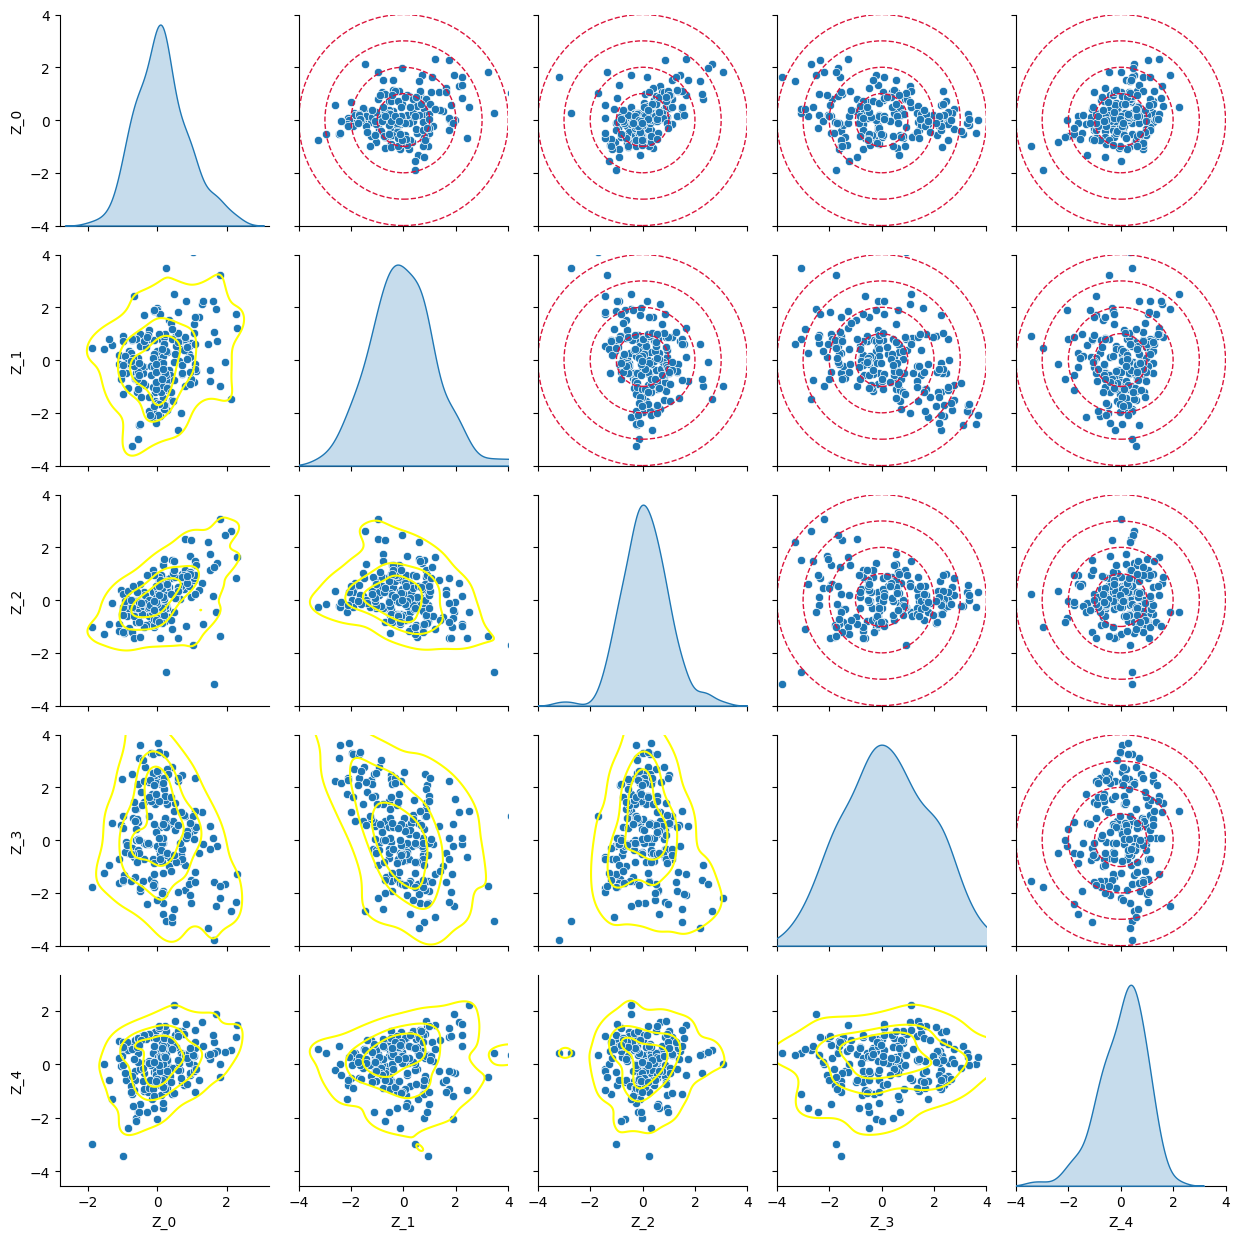
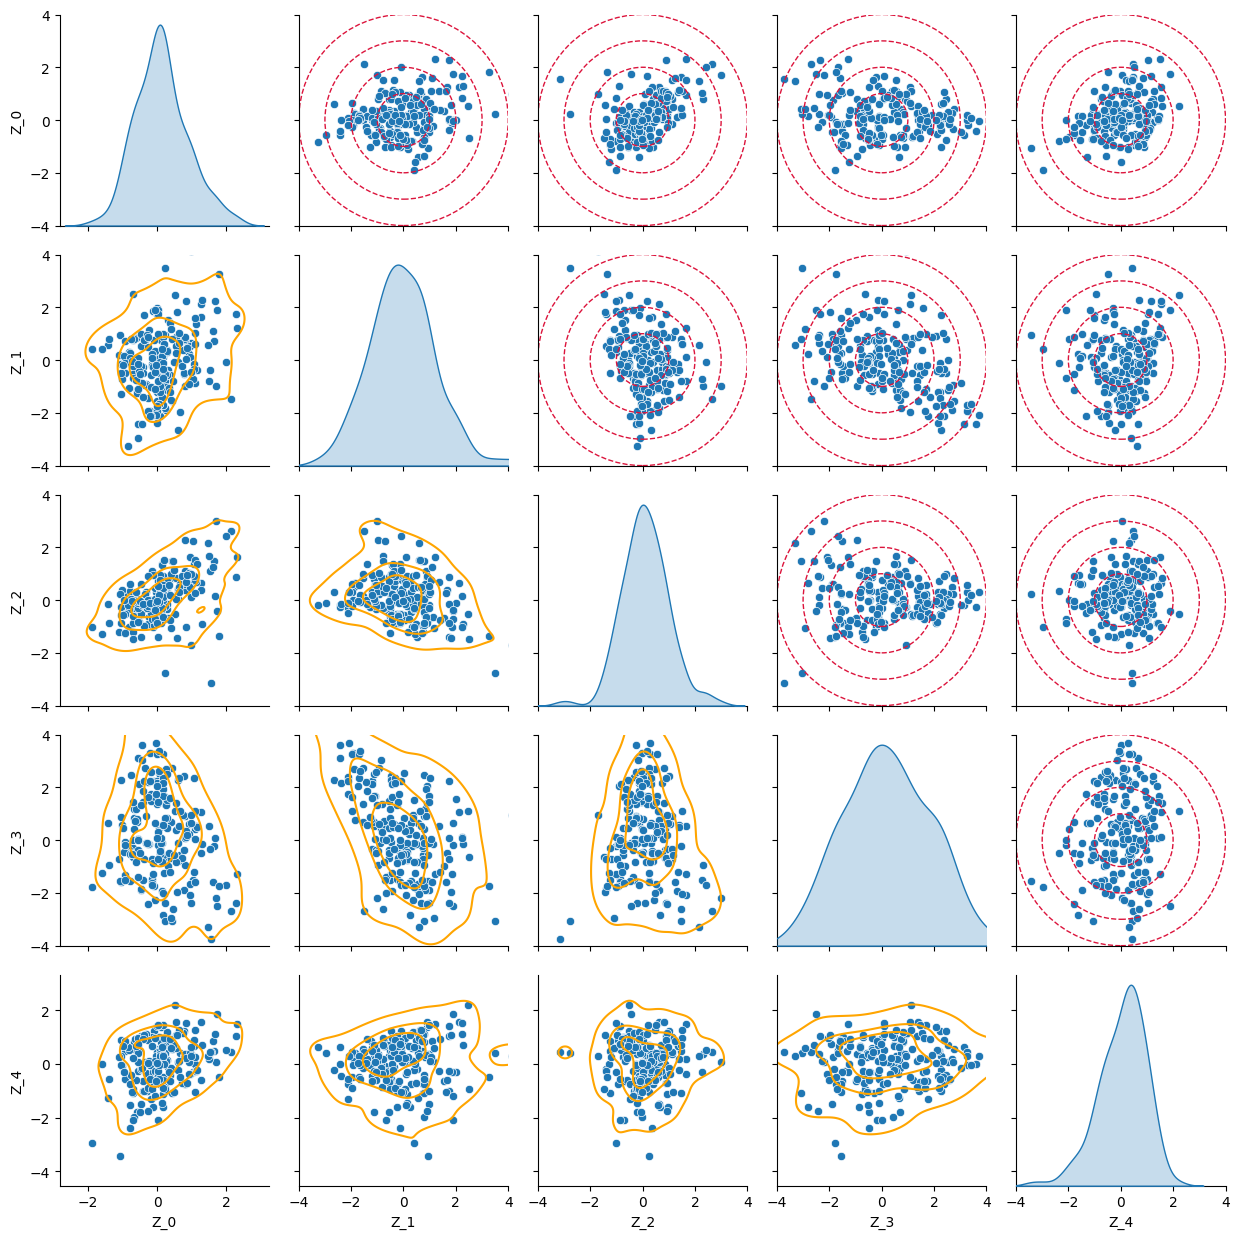
small fixes

diff --git a/_posts/2023-04-01-volatility-surface-generator.md b/_posts/2023-04-01-volatility-surface-generator.md
@@ -36,7 +36,6 @@ from matplotlib import pyplot as plt
 import matplotlib.colors as mcolors
 from mpl_toolkits.mplot3d import Axes3D
 from scipy.stats import norm
-%matplotlib inline
 ```
 
 
@@ -47,15 +46,6 @@ from scipy.stats import norm
 
 ```python
 Model = namedtuple('Model', 'model_date, S_0, r, q, V_0, κ, θ, ζ, ρ')
-```
-
-
-```python
-def get_date():
-    day = np.random.randint(1, 28)
-    month = np.random.randint(1, 13)
-    year = np.random.randint(2000, 2030)
-    return ql.Date(day, month, year)
 ```
 
 
@@ -73,6 +63,8 @@ def generate_ql_surface(model):
     return ql.HestonBlackVolSurface(heston_handle)
 ```
 
+The `compute_smile` function takes a built surface and looks at the at-the-money volatility for the specified expiry. Using this volatility it builds a vector of strikes that are close enough in probability to the forward, and computes the Black-Scholes implied volatility at those strikes. By default we do it with 101 points.
+
 
 ```python
 def compute_smile(model, ql_surface, period, factor=6, num_points=101):
@@ -88,6 +80,19 @@ def compute_smile(model, ql_surface, period, factor=6, num_points=101):
     return T, F, K_all, σ_all
 ```
 
+The small utility function `get_date` generates a random date in the QuantLib format. For what we do here the date is not important but it is still required by QuantLib.
+
+
+```python
+def get_date():
+    day = np.random.randint(1, 28)
+    month = np.random.randint(1, 13)
+    year = np.random.randint(2000, 2030)
+    return ql.Date(day, month, year)
+```
+
+As an example, we visualize one such surface in strike and maturity space.
+
 
 ```python
 model = Model(get_date(), S_0=100.0, r=0.05, q=0.03, V_0=0.1**2, κ=0.25, θ=0.1**2, ζ=0.5, ρ=0.5)
@@ -101,8 +106,6 @@ for color, period in zip(colors, ['1M', '3M', '6M', '1Y', '2Y', '3Y', '4Y', '5Y'
     Z.append(σ_all)
     C.append([color] * len(K_all))
 ```
-
-As an example, we visualize one such surface in strike and maturity space.
 
 
 ```python
@@ -120,7 +123,14 @@ ax.set_zlabel('$σ_{impl}$');
     
 
 
-The problem with strikes is that they change for each maturity; they also depend on the volatility itself, while we would prefer a fixed grid as input to the autoencoder. To do that, we use deltas instead of strikes. This is done by the `compute_simple_delta_surface()` function.
+The problem with strikes is that they change for each maturity; they also depend on the volatility itself, while we would prefer a fixed grid as input to the autoencoder. To do that, we use *deltas* instead of strikes. The delta can be roughly interpreted as the probability of the option of ending up in-the-money. The delta can be defined in several ways; here we will use the so-called *simple delta*,
+
+$$
+\delta = \Phi\left( \frac{\log\frac{F}{K}}{\sigma \sqrt{T} } \right),
+$$
+
+where $T$ is the option expiry, F$ is the forward at $T$, and $\sigma$ the implied volatility defined by the surface itself.
+This is done by the `compute_simple_delta_surface` function below.
 
 
 ```python
@@ -197,7 +207,9 @@ bounds = np.array([
 ```
 
 We use [Sobol sequences](https://en.wikipedia.org/wiki/Sobol_sequence) to span through this sever-dimensional space. For each combination of the parameters, we need to sample the surface over some deltas and maturities. For the detlas, we use
-$\mathfrak{D} = \{ \delta_1, \ldots, \delta_d \}$,with $\delta_1 = 0.1$, $\delta_d$ = 0.9, and the other points equally spaced, with $d=20$. For the maturities, we take $\mathfrak{M} = \{ \texttt{1M}, \texttt{2M}, \texttt{3M}, \texttt{4M}, \texttt{5M}, \texttt{6M}, \texttt{7M}, \texttt{8M}, \texttt{9M}, \texttt{1Y}, \texttt{18M}, \texttt{2Y}, \texttt{3Y}, \texttt{4Y}, \texttt{5Y} \}$. The resulting surface is defined on a space $\mathfrak{Z} = \mathfrak{D} \times \mathfrak{M}$ and has dimension $20 \times 15 = 300$.
+$\mathfrak{D} = \{ \delta_1, \ldots, \delta_d \}$,with $\delta_1 = 0.1$, $\delta_d$ = 0.9, and the other points equally spaced, with $d=12$. This number is a bit small; much larger samples are needed for better results but we limit ourselves to small sample sizes.
+
+For the maturities, we take $\mathfrak{M} = \{ \texttt{1M}, \texttt{2M}, \texttt{3M}, \texttt{4M}, \texttt{5M}, \texttt{6M}, \texttt{7M}, \texttt{8M}, \texttt{9M}, \texttt{1Y}, \texttt{18M}, \texttt{2Y}, \texttt{3Y}, \texttt{4Y}, \texttt{5Y} \}$. The resulting surface is defined on a space $\mathfrak{Z} = \mathfrak{D} \times \mathfrak{M}$ and has dimension $20 \times 15 = 300$.
 
 
 ```python
@@ -267,6 +279,8 @@ print(f"Using {len(surfaces_train)} for training and {len(surfaces_test)} for te
     Using 3891 for training and 205 for testing.
 
 
+Although the numbers are already reasonably well scaled, being all in the range (0, 1), we make sure they are centered in zero and have unitary standard deviation.
+
 
 ```python
 class Scaler:
@@ -293,12 +307,14 @@ scaled_surfaces_train = scaler.fit_transform(surfaces_train)
 scaled_surfaces_test = scaler.transform(surfaces_test)
 ```
 
-As baseline we use [principal component analysis](https://en.wikipedia.org/wiki/Principal_component_analysis), or PCA. A few components are enough to take into account almost all variance, so we set of 9 components. The method as implemented by `scikit-learn` is extremely simple and fast.
+As baseline we use [principal component analysis](https://en.wikipedia.org/wiki/Principal_component_analysis), or PCA. A few components are enough to take into account almost all variance, so we set of 9 components. The method as implemented by `scikit-learn` is extremely simple and fast. Even if the results of the PCA aren't exceptionally good, its simplicity, speed and numerical robustness make it a very good baseline.
 
 
 ```python
 from sklearn.decomposition import PCA
 ```
+
+PCA requires vectors, not matrices, therefore we need to flatten the data by lumping together the second and third dimensions.
 
 
 ```python
@@ -868,7 +884,7 @@ import pandas as pd
 from matplotlib.patches import Circle
 Z = vae.encoder(torch.tensor(scaled_surfaces_test).to(device))[0].cpu().detach().numpy()
 g = sns.pairplot(pd.DataFrame(Z, columns=[f"Z_{i}" for i in range(num_latent)]), diag_kind='kde', corner=False)
-g.map_lower(sns.kdeplot, levels=4, color="yellow")
+g.map_lower(sns.kdeplot, levels=4, color="orange")
 for r in [1, 2, 3, 4]:
     for j in range(1, num_latent):
         for i in range(0, j):
@@ -884,4 +900,4 @@ g.figure.tight_layout()
     
 
 
-This shows that we can effectively generate Heston-type surfaces using variational autoencoders. The training dataset is of modest dimension (about 65K entries), so the quality of the reconstructed entities could be improved with more samples.
+This shows that we can effectively generate Heston-type surfaces using variational autoencoders. The training dataset is of modest dimension -- the quality of the reconstructed entities could be improved with more samples.
